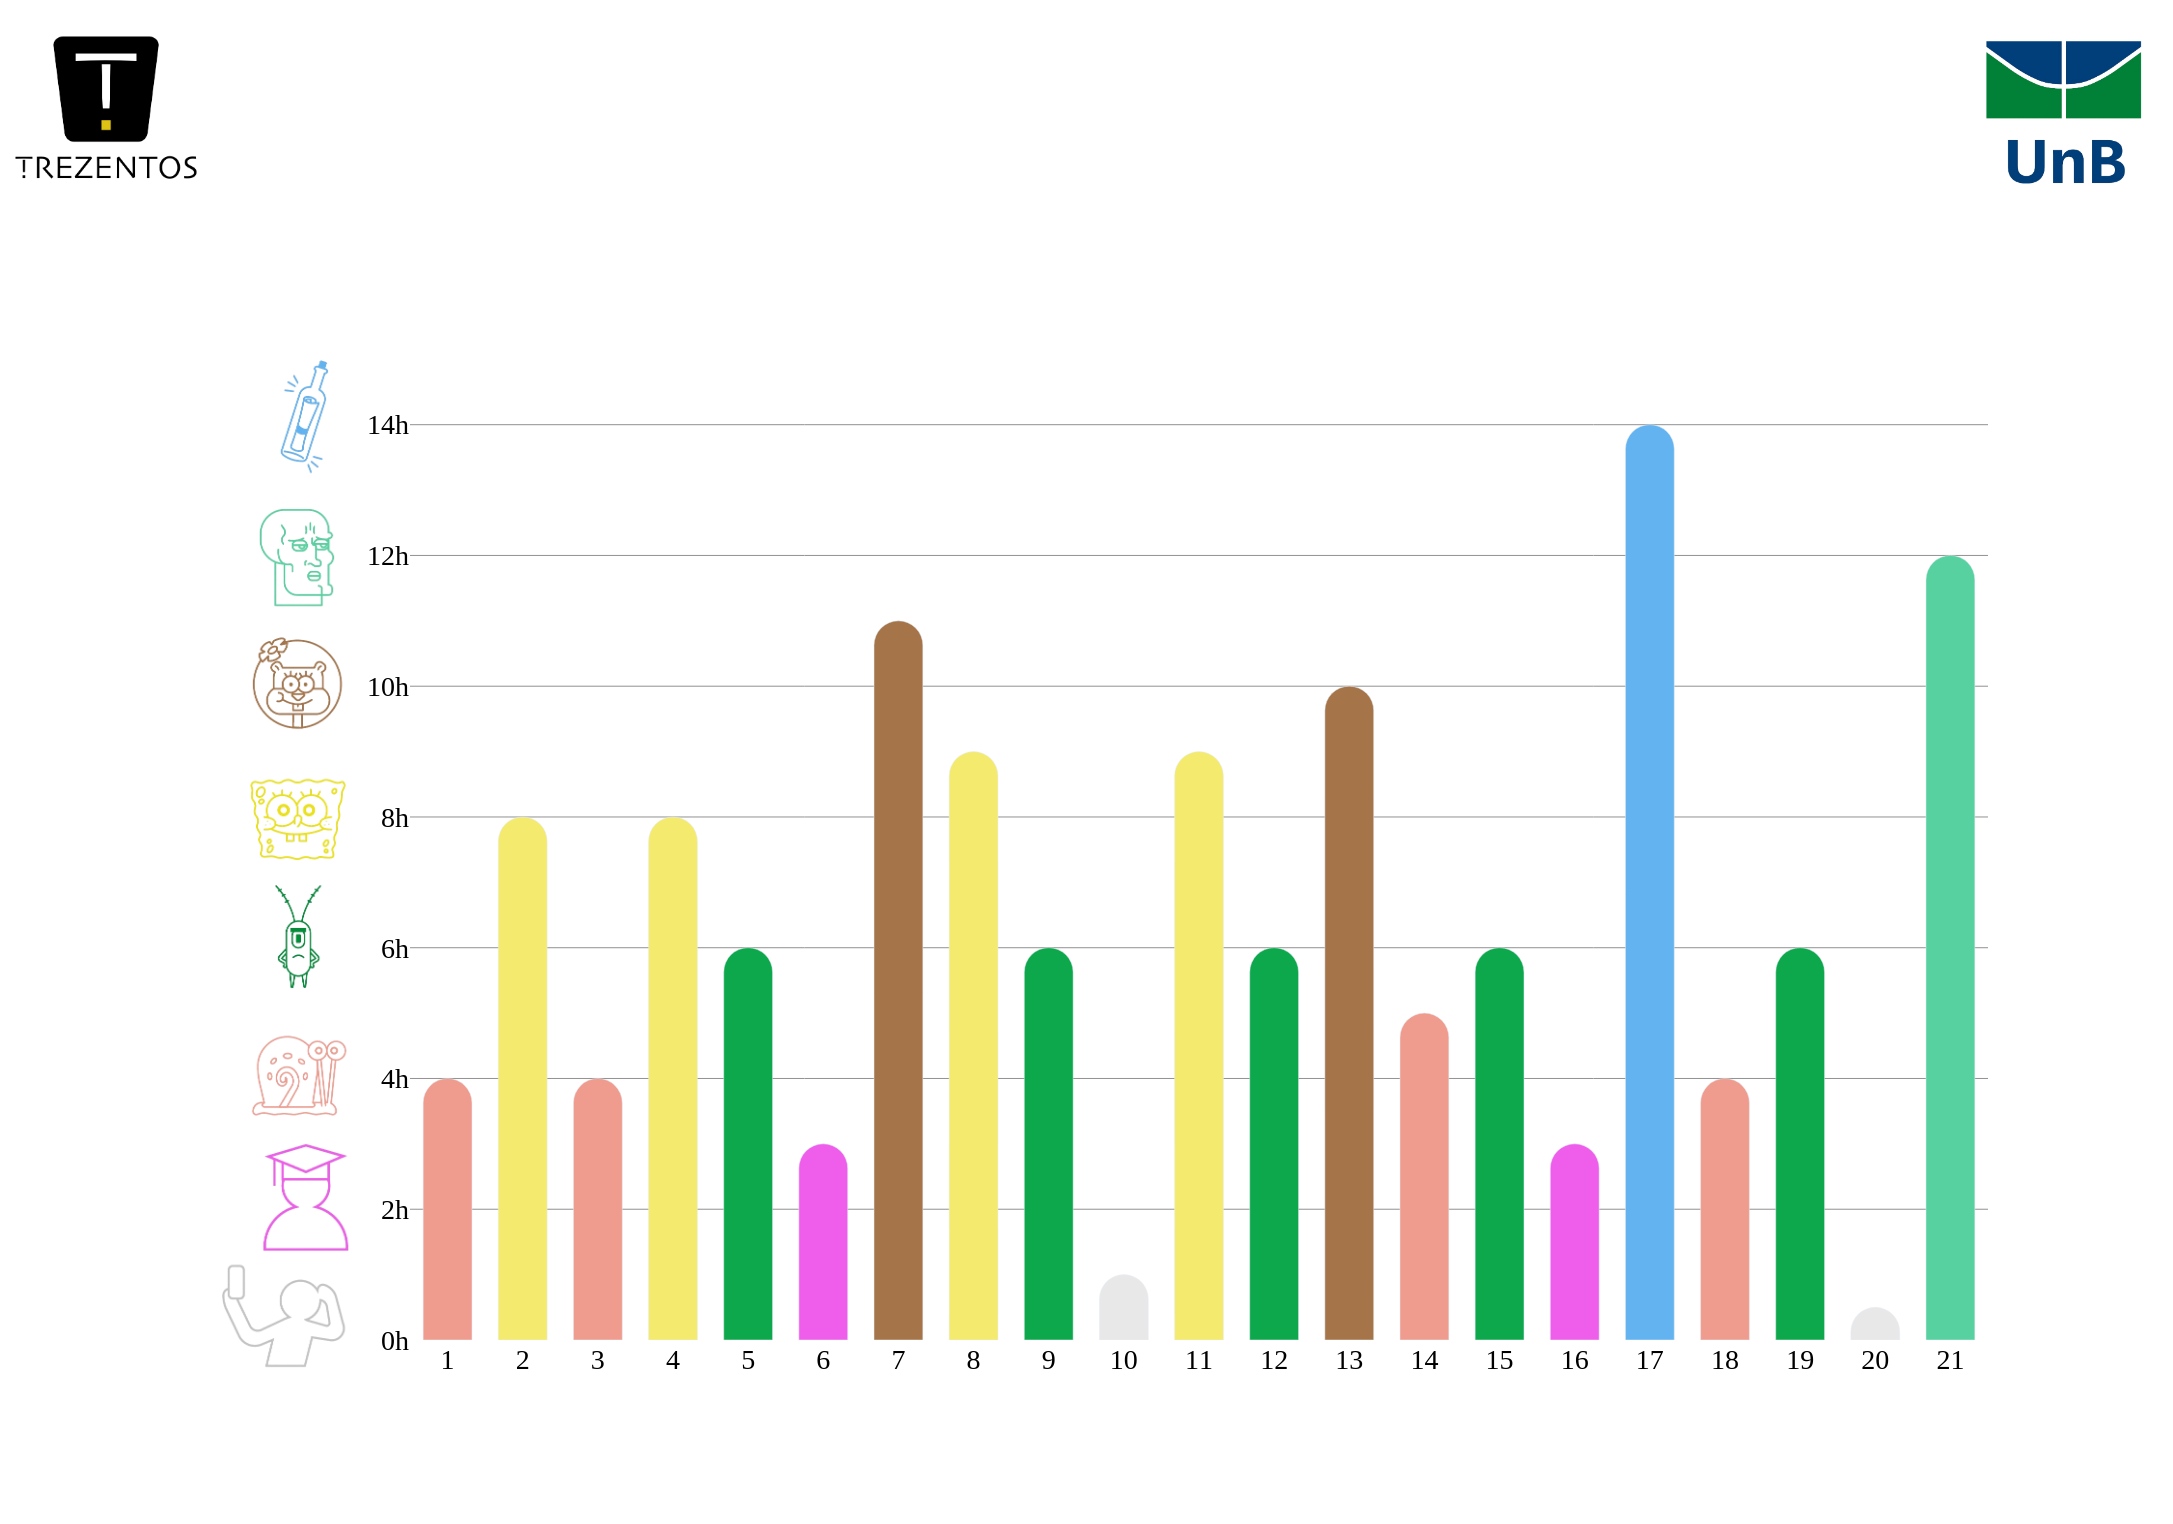
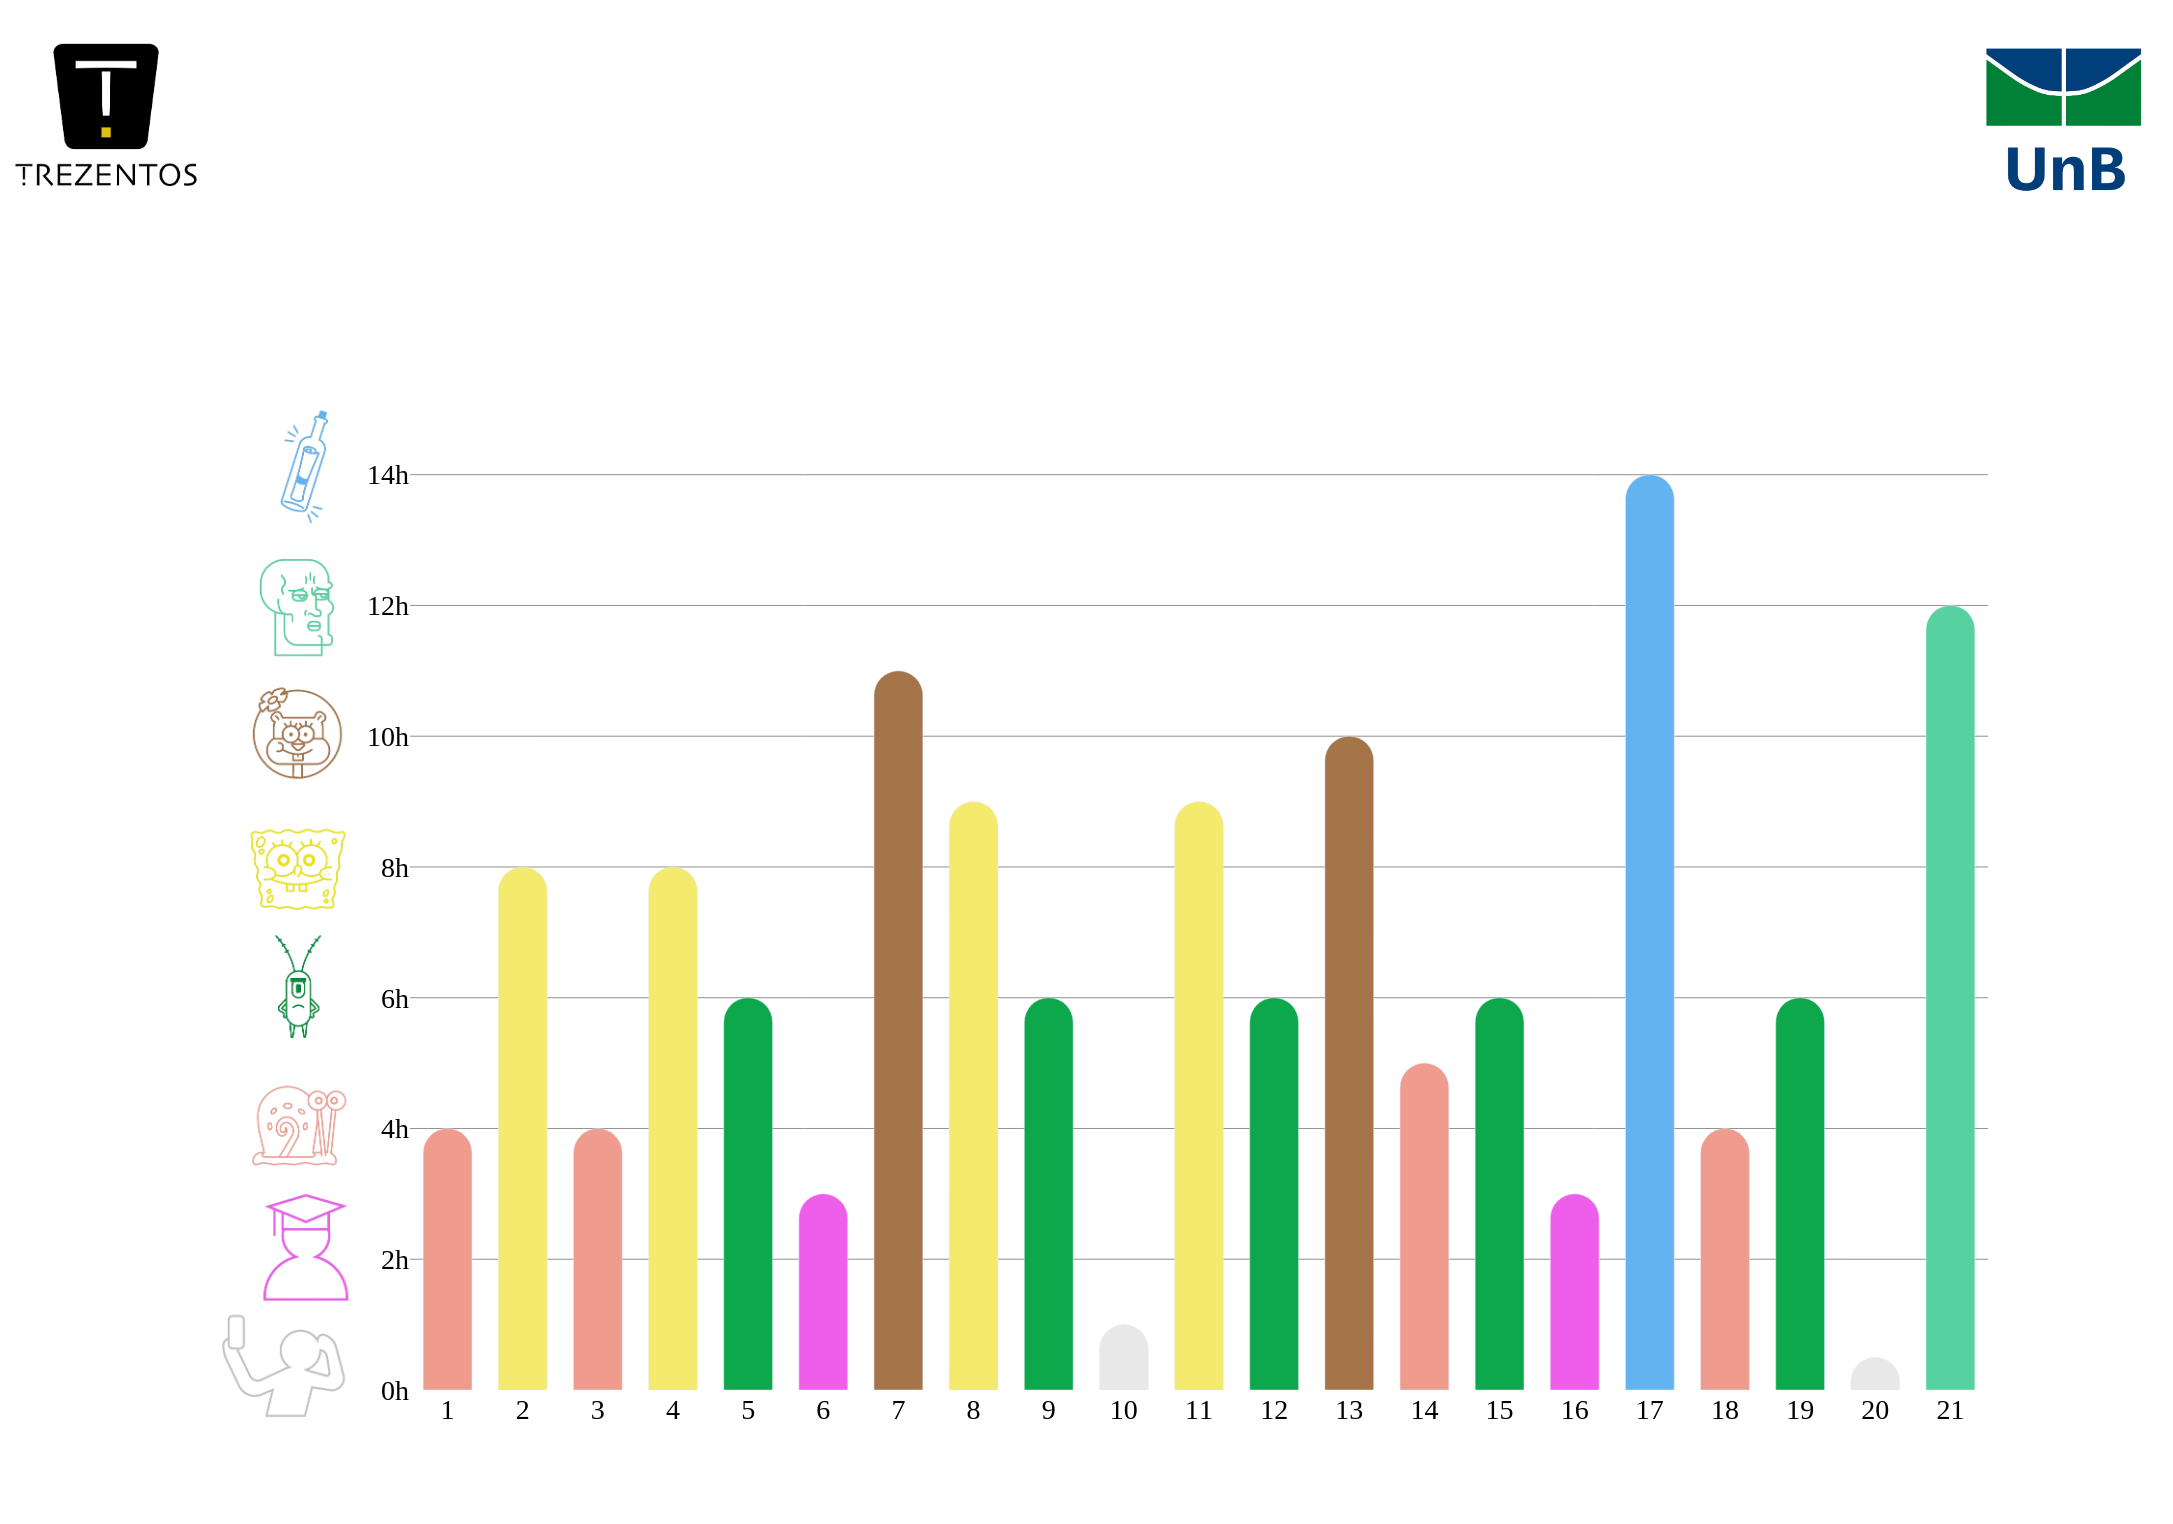
atualizando resoluções

diff --git a/imagem_final_gerador.py b/imagem_final_gerador.py
@@ -39,12 +39,12 @@ font2 = ImageFont.truetype(font_path, font_size)
 
 font_size = 30
 font3 = ImageFont.truetype(font_path, font_size)
-
+a = 48
 text1 = "Média da"
-pos1 = (70, 1350)
+pos1 = (70, 1350+a)
 
 text2 = "Turma"
-pos2 = (85, 1375)
+pos2 = (85, 1375+a)
 
 text3 = "Cálculo 1 com Professor Ricardo Ramos Fragelli"
 pos3 = (300+350, 75)
@@ -59,7 +59,7 @@ text6 = "Entrega"
 pos6 = (2040, 220)
 
 text7 = "Grupo"
-pos7 = (1086, 1375)
+pos7 = (1086, 1375+a)
 
 text_color = "#000000" #preto
 # Adiciona o texto à imagem
@@ -80,39 +80,20 @@ media = Image.open(path_redimensionada)
 
 coordx = -75
 coordy = gerando_grafico_base.resol*342
+ajusty = 48
 print(gerando_grafico_base.media_turma)
 #if gerando_grafico_base.media_turma 
 # Criando a barra da média da turma
-if 11 < gerando_grafico_base.media_turma <= 13:
-    base.paste(backside_media, (coordx, 290),backside_media)  # ajuste a posição conforme necessário
-    base.paste(backside_media_invertido, (100, 1524-backside_media_invertido.height-180),backside_media_invertido)  # ajuste a posição conforme necessário
-    base.paste(media, (coordx+50, coordy-52+10),media)  # ajuste a posição conforme necessário
-    base.paste(media_invertida, (100, 1524-media_invertida.height-180),media_invertida)  # ajuste a posição conforme necessário
-elif 10 < gerando_grafico_base.media_turma <= 11:
-    base.paste(backside_media, (coordx, 290),backside_media)  # ajuste a posição conforme necessário
-    base.paste(backside_media_invertido, (100, 1524-backside_media_invertido.height-180),backside_media_invertido)  # ajuste a posição conforme necessário
-    base.paste(media, (coordx+50, coordy-52+20),media)  # ajuste a posição conforme necessário
-    base.paste(media_invertida, (100, 1524-media_invertida.height-180),media_invertida)  # ajuste a posição conforme necessário
-elif 8< gerando_grafico_base.media_turma <= 10:
-    base.paste(backside_media, (coordx, 290),backside_media)  # ajuste a posição conforme necessário
-    base.paste(backside_media_invertido, (100, 1524-backside_media_invertido.height-180),backside_media_invertido)  # ajuste a posição conforme necessário
-    base.paste(media, (coordx+50, coordy-52+30),media)  # ajuste a posição conforme necessário
-    base.paste(media_invertida, (100, 1524-media_invertida.height-180),media_invertida)  # ajuste a posição conforme necessário
-elif 6 < gerando_grafico_base.media_turma <= 8:
-    base.paste(backside_media, (coordx, 290),backside_media)  # ajuste a posição conforme necessário
-    base.paste(backside_media_invertido, (100, 1524-backside_media_invertido.height-180),backside_media_invertido)  # ajuste a posição conforme necessário
-    base.paste(media, (coordx, coordy-15),media)  # ajuste a posição conforme necessário
-    base.paste(media_invertida, (100, 1524-media_invertida.height-180),media_invertida)  # ajuste a posição conforme necessário
-elif gerando_grafico_base.media_turma <= 6:
-    base.paste(backside_media, (coordx, 290),backside_media)  # ajuste a posição conforme necessário
-    base.paste(backside_media_invertido, (100, 1524-backside_media_invertido.height-180),backside_media_invertido)  # ajuste a posição conforme necessário
-    base.paste(media, (coordx, coordy),media)  # ajuste a posição conforme necessário
-    base.paste(media_invertida, (100, 1524-media_invertida.height-180),media_invertida)  # ajuste a posição conforme necessário
-else:
-    base.paste(backside_media, (coordx, 290),backside_media)  # ajuste a posição conforme necessário
-    base.paste(backside_media_invertido, (100, 1524-backside_media_invertido.height-180),backside_media_invertido)  # ajuste a posição conforme necessário
-    base.paste(media, (coordx+50, coordy-52),media)  # ajuste a posição conforme necessário
-    base.paste(media_invertida, (100, 1524-media_invertida.height-180),media_invertida)  # ajuste a posição conforme necessário
+base.paste(backside_media, (coordx, 290+ajusty),backside_media)  # ajuste a posição conforme necessário
+base.paste(backside_media_invertido, (100, 1524-backside_media_invertido.height-180+ajusty),backside_media_invertido)  # ajuste a posição conforme necessário
+
+if 11 < gerando_grafico_base.media_turma <= 13: base.paste(media, (coordx+50, coordy-52+10+ajusty),media)  # ajuste a posição conforme necessário
+elif 10 < gerando_grafico_base.media_turma <= 11: base.paste(media, (coordx+50, coordy-52+20+ajusty),media)  # ajuste a posição conforme necessário
+elif 8< gerando_grafico_base.media_turma <= 10: base.paste(media, (coordx+50, coordy-52+30+ajusty),media)  # ajuste a posição conforme necessário
+elif 6 < gerando_grafico_base.media_turma <= 8: base.paste(media, (coordx, coordy-15+ajusty),media)  # ajuste a posição conforme necessário
+elif gerando_grafico_base.media_turma <= 6: base.paste(media, (coordx, coordy+ajusty),media)  # ajuste a posição conforme necessário
+else: base.paste(media, (coordx+50, coordy-52+ajusty),media)  # ajuste a posição conforme necessário
+base.paste(media_invertida, (100, 1524-media_invertida.height-180+ajusty),media_invertida)
 
 #Criando a barra dos dias
 coordx= 200

diff --git a/gerando_grafico_base.py b/gerando_grafico_base.py
@@ -1,6 +1,7 @@
 import pandas as pd
 import plotly.graph_objects as go
 import os
+from PIL import Image
 # Carregar o DataFrame
 df = pd.read_excel("/home/victor/Documents/TREZENTOS/trezentosteste999.xlsx")
 resol = 1
@@ -50,6 +51,7 @@ fonte_ttf_externa = "/home/victor/Documents/TREZENTOS/Poppins-Regular.ttf"
 fig = go.Figure(data=go.Bar(x=x_data, y=y_data, marker=dict(color=cores, cornerradius=30),width=0.65))
 
 # Adicionar rótulos aos eixos
+a=50
 fig.update_layout(
     plot_bgcolor='white',
 
@@ -68,7 +70,7 @@ fig.update_layout(
         tickfont=dict(size=14*resol*2),  # Aumenta o tamanho da fonte dos números no eixo x
         titlefont=dict(size=20*resol*2)
         ),
-    margin=dict(l=410*resol,r=185*resol, b=92*2*resol,t=392*resol), #l=410/2,r=185/2, b=92,t=392/2)
+    margin=dict(l=410*resol,r=185*resol, b=92*2*resol-a,t=392*resol+a), #l=410/2,r=185/2, b=92,t=392/2)
     width=largura,  # Definir a largura da figura
     height=altura,  # Definir a altura da figura
     font=dict(family=fonte_ttf_externa,
@@ -93,6 +95,7 @@ path_imagem_14hour = os.path.join(current_directory, 'Bob_esponja_assets', '14ho
 path_imagem_logounb = os.path.join(current_directory, 'demais_assets', 'logo_unb.png')
 path_imagem_logotrezentos = os.path.join(current_directory, 'demais_assets', 'trezentos.png')
 
+a=0.045
 imagens = [
     (path_imagem_0hour, -0.12*linha_grade, -0.05),
     (path_imagem_2hour, -0.11*linha_grade, 0.08),
@@ -102,8 +105,8 @@ imagens = [
     (path_imagem_10hour, -0.115*linha_grade, 0.62),
     (path_imagem_12hour, -0.1115*linha_grade, 0.75),
     (path_imagem_14hour, -0.105*linha_grade, 0.9),
-    (path_imagem_logotrezentos, -0.25, 1.225),
-    (path_imagem_logounb, 0.999, 1.22)
+    (path_imagem_logotrezentos, -0.25, 1.225+a),
+    (path_imagem_logounb, 0.999, 1.22+a)
 ]
 
 for imagem_url, x, y in imagens:
@@ -125,6 +128,7 @@ for imagem_url, x, y in imagens:
 if not os.path.exists("images"):
     os.mkdir("images")
 fig.write_image("/home/victor/Documents/TREZENTOS/images/base_graf.png")
-
-# Exibir o gráfico
-#fig.show()
+'''
+base = Image.open("/home/victor/Documents/TREZENTOS/images/base_graf.png")
+base.show()
+'''
